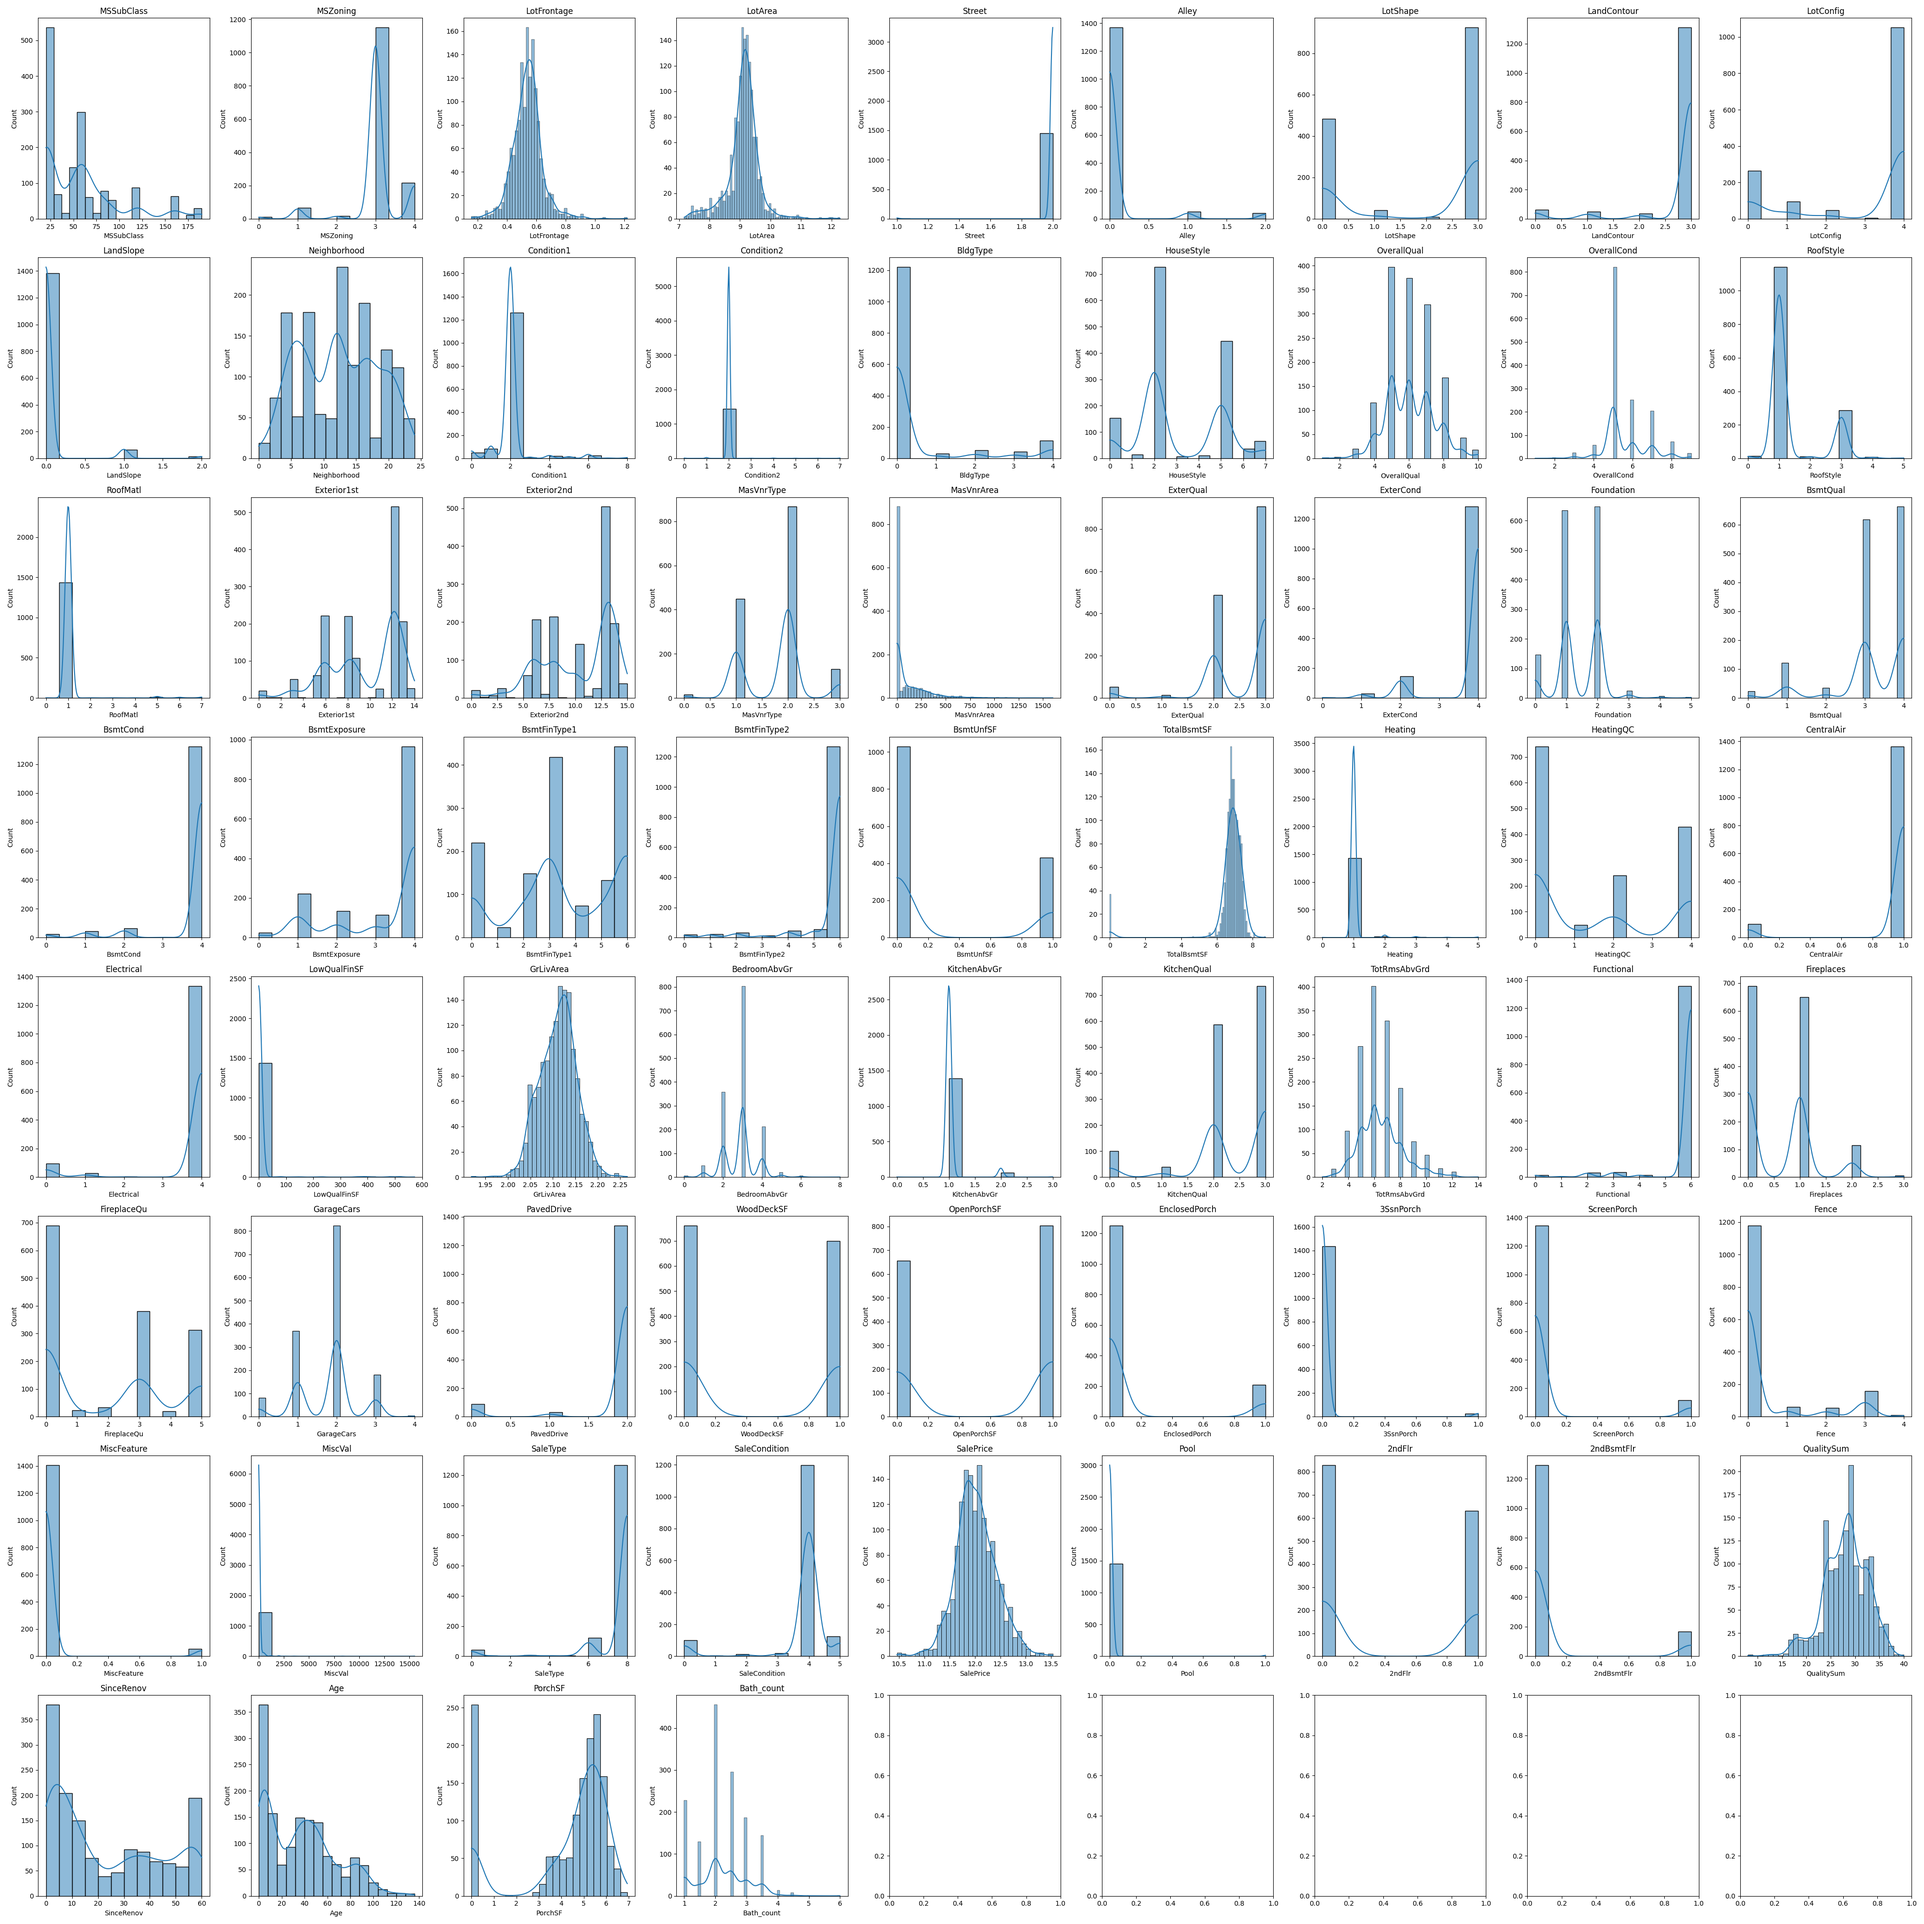
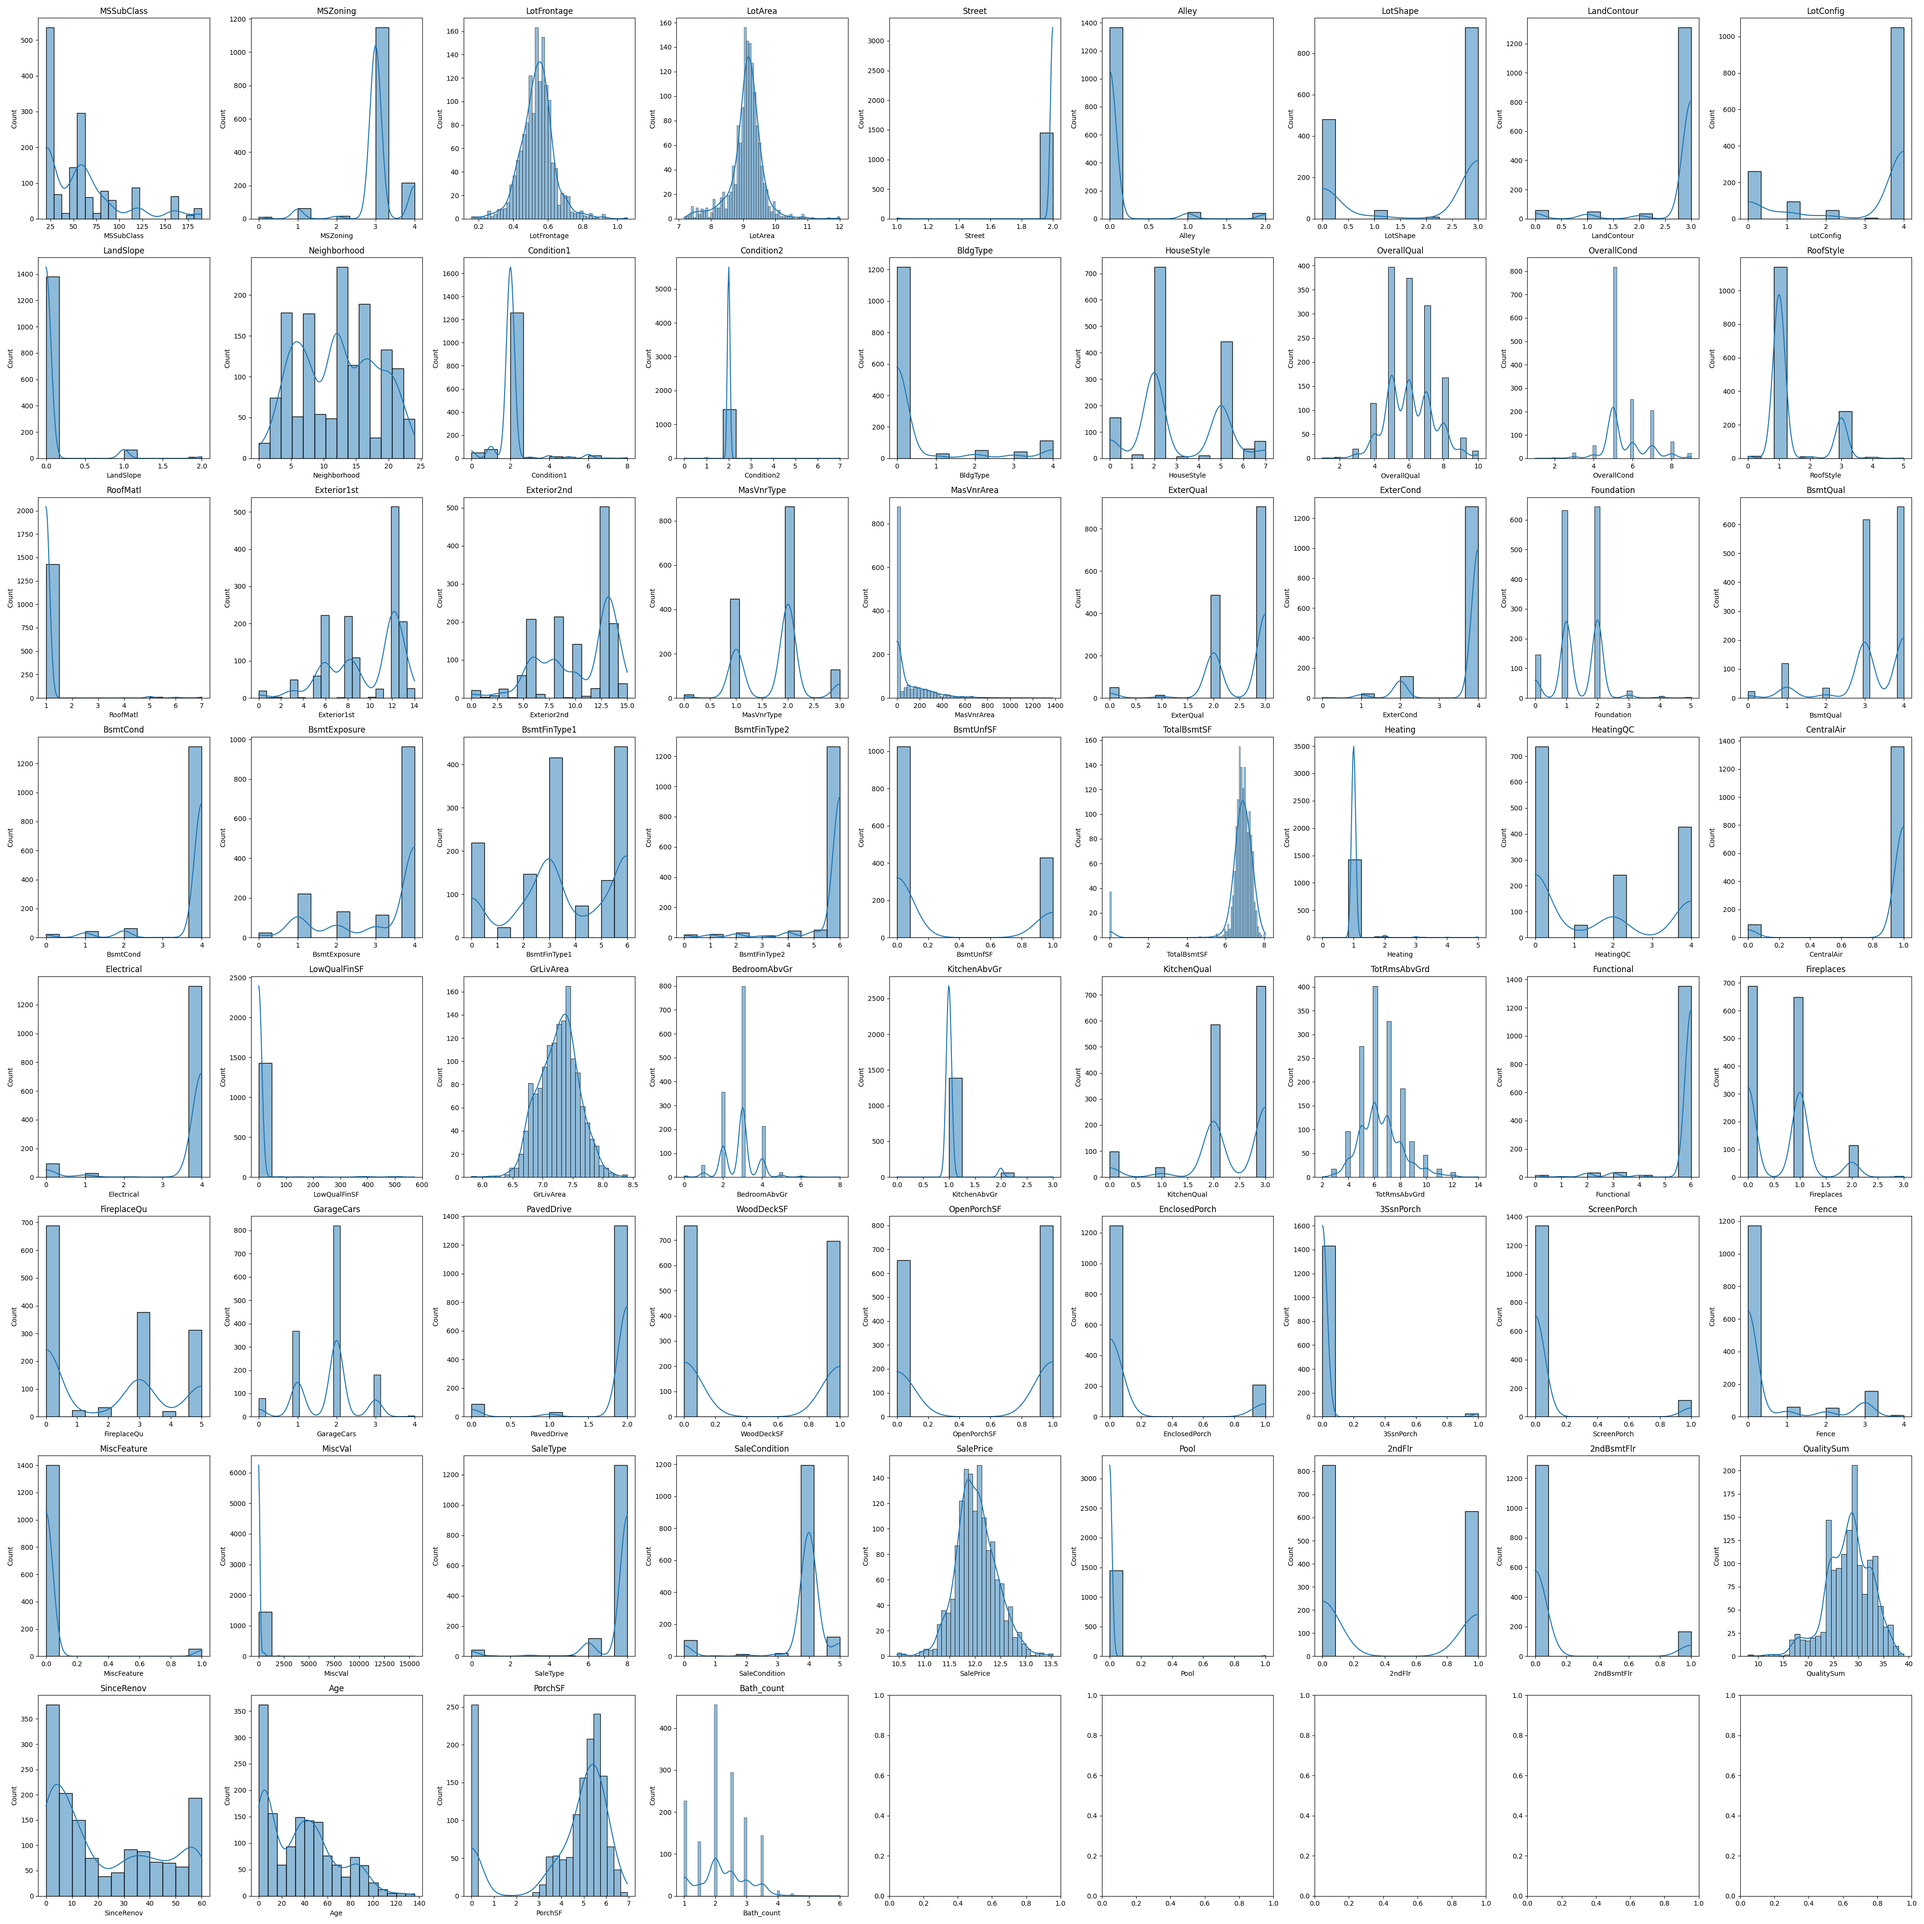
outlier removal

diff --git a/train.py b/train.py
@@ -68,7 +68,7 @@ print(combine_data.groupby('MasVnrType', as_index=False)['OverallQual'].mean())
 
 numeric_list = ['Alley','Street','MiscFeature','Pool','2ndFlr']
 drop_list_columns = ['YearBuilt','YearRemodAdd','1stFlrSF','2ndFlrSF','YrSold','MoSold','BsmtFinSF1','BsmtFinSF2', 'Utilities','Id']  ###Year columns engineered, FlrSF combined and discrete variable for 2nd floor, Time sold+Utilities+Id no correlation, BsmtFin engineered
-continuous_list = ['SalePrice','LotArea','LotFrontage','Age','GrLivArea','TotalBsmtSF','GrLivArea','MasVnrArea','BsmtUnfSF','BsmtFinSF1','BsmtFinSF2','1stFlrSF','2ndFlrSF','GarageArea','PorchSF','QualitySum','OverallQual','SinceRenov']
+continuous_list = ['SalePrice','LotArea','LotFrontage','Age','GrLivArea','TotalBsmtSF','MasVnrArea','BsmtFinSF1','BsmtFinSF2','1stFlrSF','2ndFlrSF','GarageArea','PorchSF','QualitySum','OverallQual','SinceRenov']
 garage_list = ['GarageType','GarageYrBlt','GarageFinish','GarageQual','GarageCond','GarageArea']
 quality_sum_list =['ExterQual','ExterCond','BsmtQual','BsmtCond','HeatingQC','KitchenQual','FireplaceQu','GarageQual','GarageCond','PoolQC']
 bath_list = ['BsmtFullBath','BsmtHalfBath','FullBath','HalfBath']
@@ -253,7 +253,7 @@ plt.close
 
 ###transform numerical to obtain normal distribution
 #quantile = QuantileTransformer(n_quantiles=1000,output_distribution='normal')
-transform_list=['SalePrice','LotArea','LotFrontage','GrLivArea','TotalBsmtSF','GrLivArea','1stFlrSF','GarageArea','PorchSF']
+transform_list=['SalePrice','LotArea','LotFrontage','GrLivArea','TotalBsmtSF','1stFlrSF','GarageArea','PorchSF']
 for i in data:
 	for col in transform_list:
 		if i.name == 'test' and col == 'SalePrice':
@@ -284,7 +284,6 @@ for i in continuous_list:
 	l+=1
 plt.savefig('graphs/box_num_quantile.png')
 plt.close
-
 
 ####delete defined columns
 for i in data:
@@ -374,6 +373,33 @@ for col in transform_list:
 print('\nOutliers in continuous features (3*IQR):')
 print(*cont_outlier, sep = '\n')
 
+f, ax = plt.subplots(4, 3, figsize=(20, 15))
+l=1
+for col in continuous_list:
+	ax = plt.subplot(4,3,l)
+	try:
+		sn.scatterplot(x=col,y='SalePrice',data=train)
+		ax.set_title(col)
+		l+=1
+	except:
+		pass
+f.tight_layout()
+plt.savefig('graphs/scatter_price_cont_final.png')
+plt.close
+
+#####Remove max-outliers in continuous features
+outlier_col = ['LotArea', 'LotFrontage', 'MasVnrArea', 'GrLivArea', 'TotalBsmtSF']
+outlier_row = []
+for col in outlier_col:
+	if train[col].idxmax() in outlier_row:
+		pass
+	else:
+		outlier_row.append(train[col].idxmax())
+print('\nRows with max value outliers:')
+print(outlier_row)
+train.drop(train.index[outlier_row], axis=0, inplace=True)
+train.drop(train['GrLivArea'].idxmax(), axis=0, inplace=True) ###include in upper loop to remove second highest too
+
 ###plot new distributions
 f, ax = plt.subplots(8, 9, figsize=(40, 40))
 l=1
@@ -409,7 +435,7 @@ Y_pred = linreg.predict(x_test)
 ##print("Accuracy Linear Regression (RMSLE):",np.sqrt(metrics.mean_squared_log_error(y_test, Y_pred)))
 print("Accuracy Linear Regression (RMSLE):",np.sqrt(metrics.mean_squared_log_error(np.expm1(y_test), np.expm1(Y_pred))))
 #####Random Forest
-clf_simple=RandomForestRegressor(n_estimators= 500, random_state=666)
+clf_simple=RandomForestRegressor(n_estimators= 100, random_state=666)
 clf_simple.fit(x_train,y_train)
 Y_pred=clf_simple.predict(x_test)
 ##print("Accuracy Simple Random Forest (RMSLE):",np.sqrt(metrics.mean_squared_log_error(y_test, Y_pred)))
@@ -445,11 +471,11 @@ plt.savefig('graphs/feature_contribution_xgboost.png')
 plt.close
 ####Optimized XGBoost
 # param_grid = {
-#      'colsample_bytree': np.linspace(0.3, 1, 4),
-#      'n_estimators':[100,500,1000],
-#      'max_depth': [3, 5, 7, 10],
-#      'learning_rate': [0.05, 0.1,0.15],
-#      'min_child_weight': [1,3,6],
+#      'colsample_bytree': np.linspace(0.2, 1, 4),
+#      'n_estimators':[500,1000,1500],
+#      'max_depth': [4, 5, 6, 8],
+#      'learning_rate': [0.05, 0.08,0.10],
+#      'min_child_weight': [1,3,5],
 #      'booster': ['gbtree'],
 #      'objective': ['reg:squarederror']
 # }
